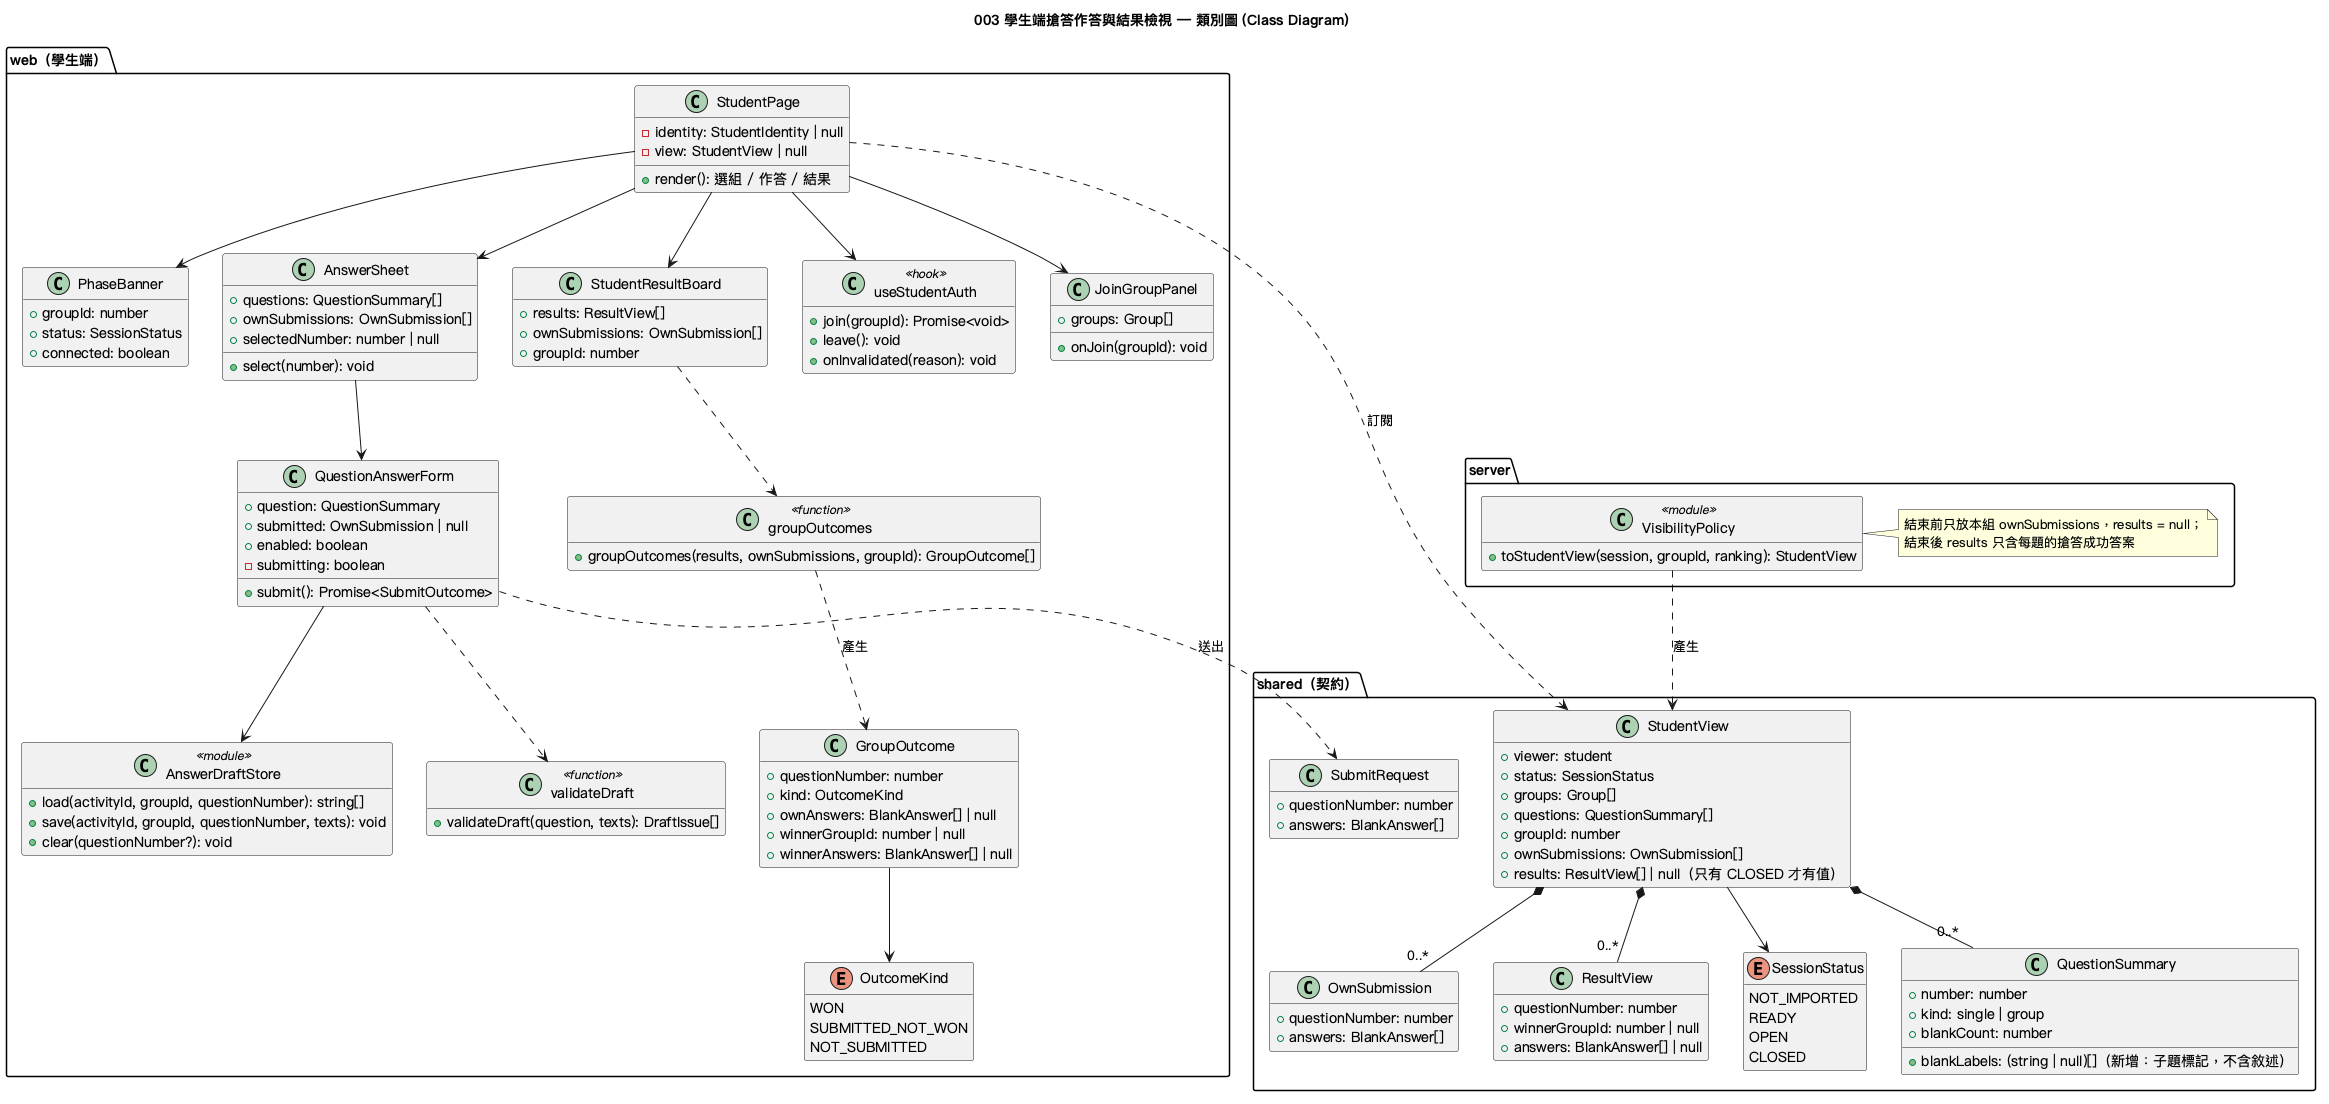
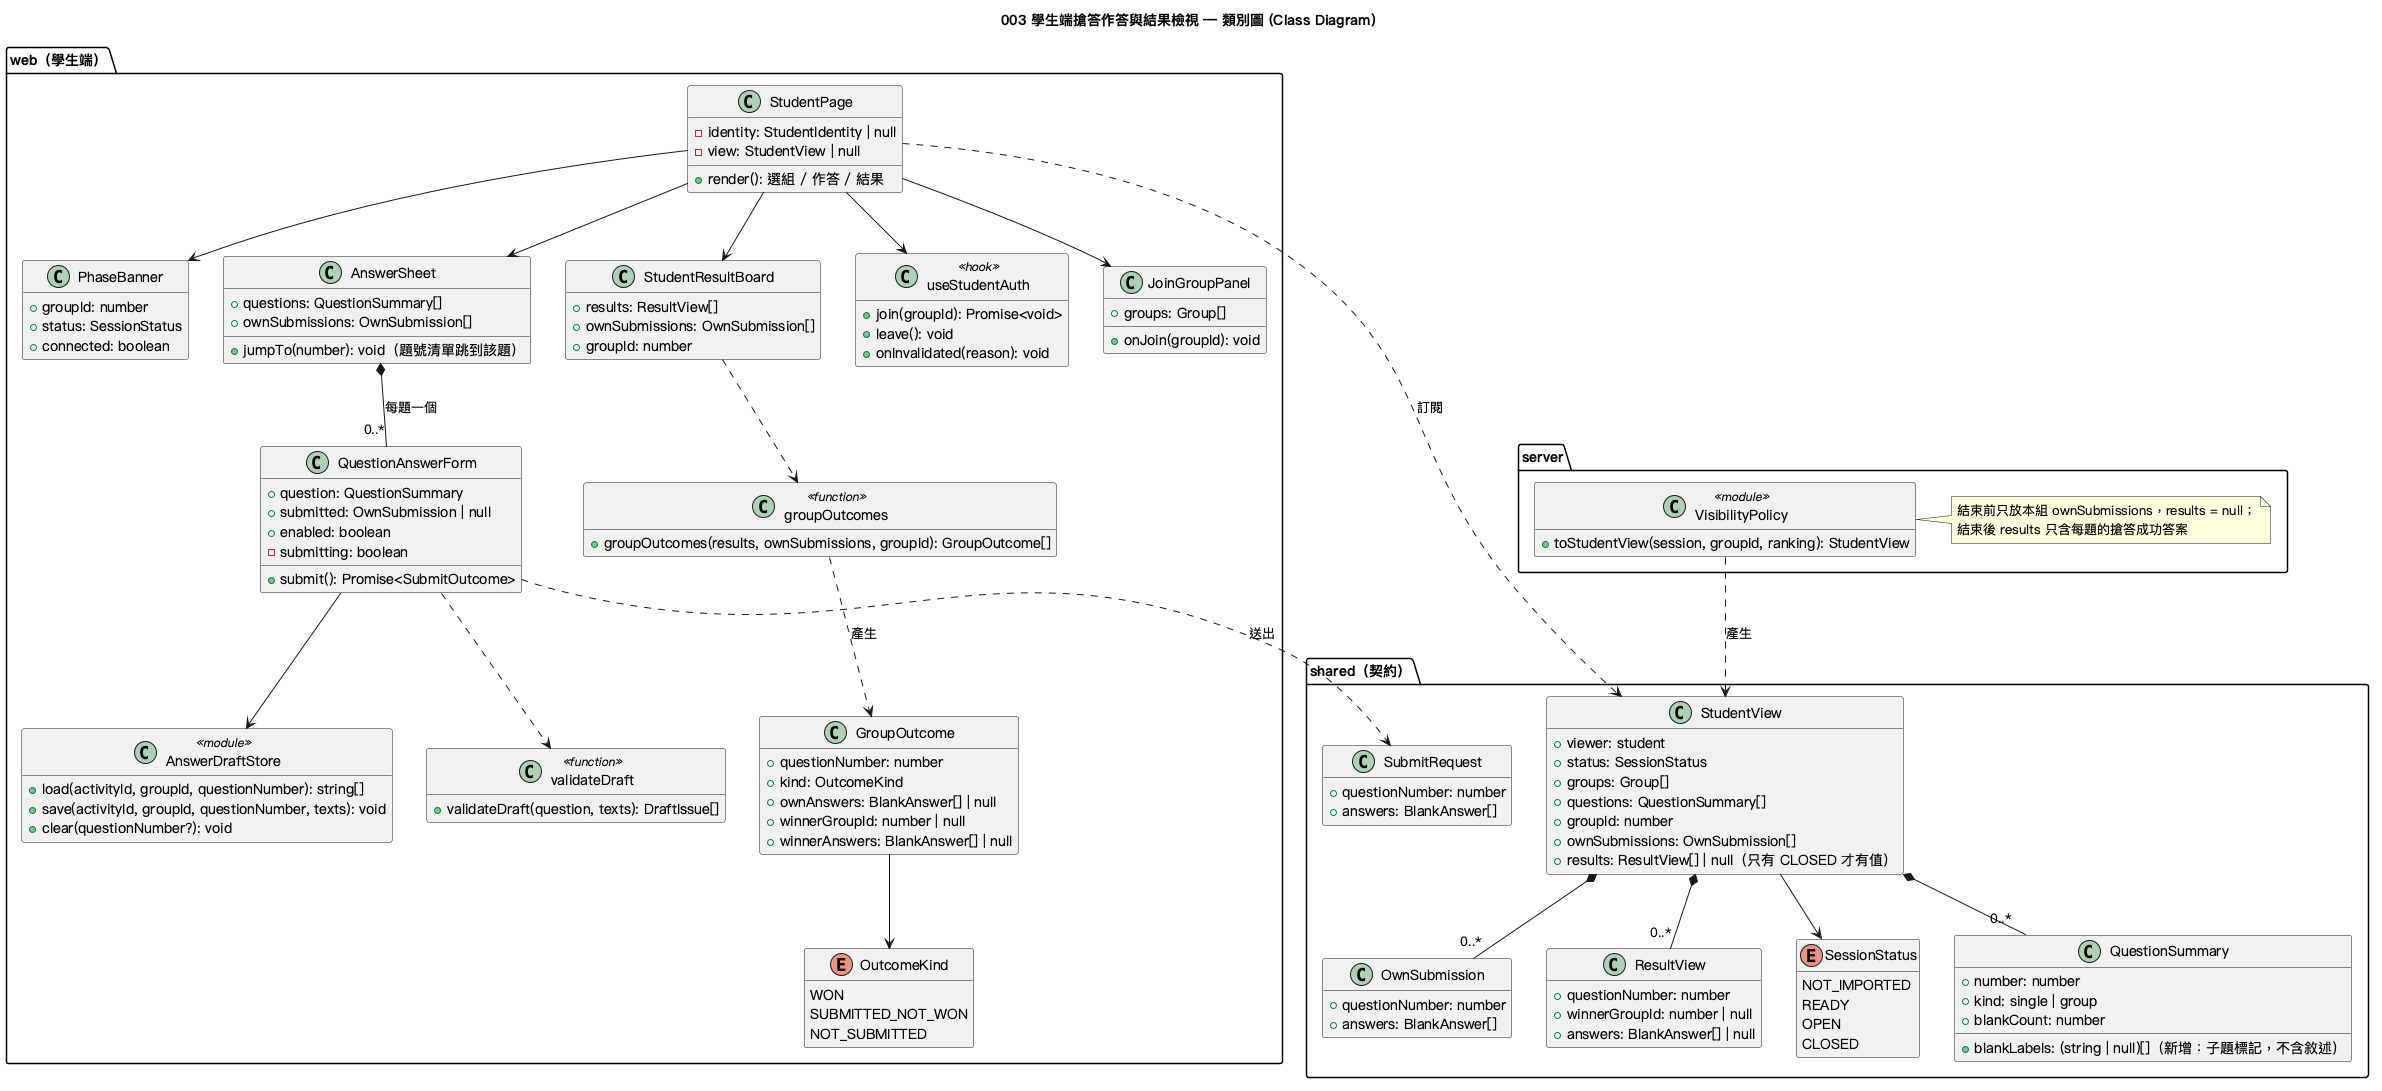
docs(003): record clarify session (results visibility, leave group, drafts, answer layout)

diff --git a/specs/003-student-quiz-participation/spec.md b/specs/003-student-quiz-participation/spec.md
@@ -32,6 +32,19 @@
 - 送出後修改或撤回答案、判斷答案對錯、學生端的搶答計時器
 - CSV 匯出、更公平的搶答順位機制等延伸功能
 
+## Clarifications
+
+### Session 2026-11-23
+
+- Q: 搶答結束後，學生端除了每一題的搶答成功答案，還能看到其他組沒搶到的答案嗎？ → A: 不能。學生只看到每題的
+  搶答成功組別與答案，加上本組自己的答案與成績；其他組別未搶到的答案只有老師端看得到（FR-025）。
+- Q: 學生加入組別之後，什麼時候可以離開組別、改選其他組？ → A: 只有「待開始」時可以；「搶答進行中」與「已結束」
+  時學生端不提供「離開組別」（FR-005）。
+- Q: 學生打了答案但還沒送出時，重新整理分頁之後，打過的內容要保留嗎？ → A: 保留在同一分頁；該題送出成功、離開
+  組別或身分失效時清除；同組其他分頁與伺服器都看不到（FR-020）。
+- Q: 搶答進行中，作答畫面要一次列出所有題目，還是點題號後只顯示那一題？ → A: 所有題目由上到下一次列出，每題有
+  自己的輸入欄、送出按鈕與作答狀態；上方的題號清單可點擊跳到該題（FR-012）。
+
 ## User Scenarios & Testing *(mandatory)*
 
 ### User Story 1 - 學生選組加入並同步看到活動階段 (Priority: P1)
@@ -55,7 +68,8 @@
    變為「搶答進行中」並開放作答。
 4. **Given** 學生已加入組別，**When** 學生重新整理分頁，或伺服器重新啟動後分頁重新連線，**Then** 學生
    仍在原本的組別，畫面回到目前正確的階段與資料。
-5. **Given** 學生已加入第 2 組，**When** 學生選擇「離開組別」，**Then** 畫面回到選組畫面，可以改選其他組。
+5. **Given** 學生已加入第 2 組且活動為「待開始」，**When** 學生選擇「離開組別」，**Then** 畫面回到選組畫面，
+   可以改選其他組；活動為「搶答進行中」或「已結束」時，畫面不提供「離開組別」。
 6. **Given** 學生已加入組別，**When** 老師在活動結束後重新匯入新的 Guided Notes，**Then** 學生畫面自動
    回到選組畫面，並說明「老師已開始新的活動，請重新選擇組別」。
 
@@ -74,7 +88,8 @@
 
 **Acceptance Scenarios**:
 
-1. **Given** 活動「搶答進行中」，**When** 學生檢視題目，**Then** 畫面列出全部題號，標示單題或題組；
+1. **Given** 活動「搶答進行中」，**When** 學生檢視題目，**Then** 畫面由上到下一次列出全部題目，每題有自己的
+   輸入欄與送出按鈕，標示單題或題組；
    題組依子題列出輸入欄（有標記時顯示「（1）」「（2）」），每題標示本組「未作答」或「已送出」。
 2. **Given** 學生選擇第 3 題（單題），**When** 填入答案並送出，**Then** 畫面顯示「已送出」與本組送出的答案，
    該題的輸入欄變為唯讀，不能修改或再次送出。
@@ -125,7 +140,8 @@
 - 學生分頁斷線：畫面顯示「連線中斷，正在重新連線」，期間不能送出；重連後回到正確階段與本組資料。
 - 學生分頁重新整理：保留組別、本組已送出的內容，以及該分頁尚未送出的輸入內容。
 - 學生身分逾時（超過 12 小時）或屬於舊活動：自動回到選組畫面並說明原因。
-- 學生離開組別後改選其他組：本組已送出的答案仍屬於原組別，不會被撤回或轉移。
+- 學生在「搶答進行中」或「已結束」想換組：同一分頁不提供離開組別，需等老師開始新的活動；加入不需密碼，
+  另開分頁仍可加入任一組，這一點沿用 001 的設計，不在本子功能限制。
 - 學生在老師分頁的同一瀏覽器另開分頁：新分頁是獨立的身分，需自行選組，不會取得老師身分。
 - 已取得老師身分的分頁打開學生端：畫面說明此分頁是老師身分，請另開分頁以學生身分加入，不顯示作答功能。
 - 老師在「待開始」時重新匯入（題目或組別數改變）：學生身分失效，回到選組畫面重新選組。
@@ -144,8 +160,8 @@
 - **FR-003**: 學生身分 MUST 只綁定在加入的那個分頁，規則同 001 FR-003a：同一分頁重新整理、斷線重連或伺服器
   重新啟動後仍保有組別；分頁關閉後失效；同一瀏覽器的其他分頁不共享；自加入起最長有效 12 小時。
 - **FR-004**: 學生端畫面 MUST 一直清楚顯示該分頁所屬的組別。
-- **FR-005**: 學生 MUST 能在任何階段「離開組別」回到選組畫面並改選其他組；已送出的答案屬於原組別，
-  MUST NOT 因離開而撤回或轉移。
+- **FR-005**: 學生 MUST 能在「待開始」階段「離開組別」回到選組畫面並改選其他組；「搶答進行中」與「已結束」
+  階段學生端 MUST NOT 提供離開組別。
 - **FR-006**: 多個分頁 MUST 能加入同一組別，視為同一組；本組任一分頁送出後，同組其他分頁 MUST 在 1 秒內
   顯示該題「已送出」與本組答案。
 - **FR-007**: 學生身分失效時（老師重新匯入開始新的活動、身分逾時或身分屬於舊活動），學生端 MUST 自動回到
@@ -167,7 +183,8 @@
 **作答與送出**
 
 - **FR-011**: 學生端 MUST 只在「搶答進行中」開放作答與送出；其他階段輸入欄與送出按鈕 MUST 停用。
-- **FR-012**: 搶答進行中，學生端 MUST 列出全部題目的題號，標示單題或題組，學生可任選一題作答；題組 MUST
+- **FR-012**: 搶答進行中，學生端 MUST 由上到下一次列出全部題目，每題有自己的輸入欄與送出按鈕，標示單題或題組，
+  學生可任選一題作答，不需先選題；畫面上方 MUST 提供題號清單，點擊後跳到該題。題組 MUST
   依子題順序列出各自的輸入欄，有子題標記時一併顯示（如「（1）」）。學生端 MUST NOT 顯示題目敘述（題目敘述
   只供老師預覽，002 FR-007、SC-009），學生參照手上的 Guided Notes 作答。
 - **FR-013**: 每題 MUST 標示本組的作答狀態：「未作答」或「已送出」。
